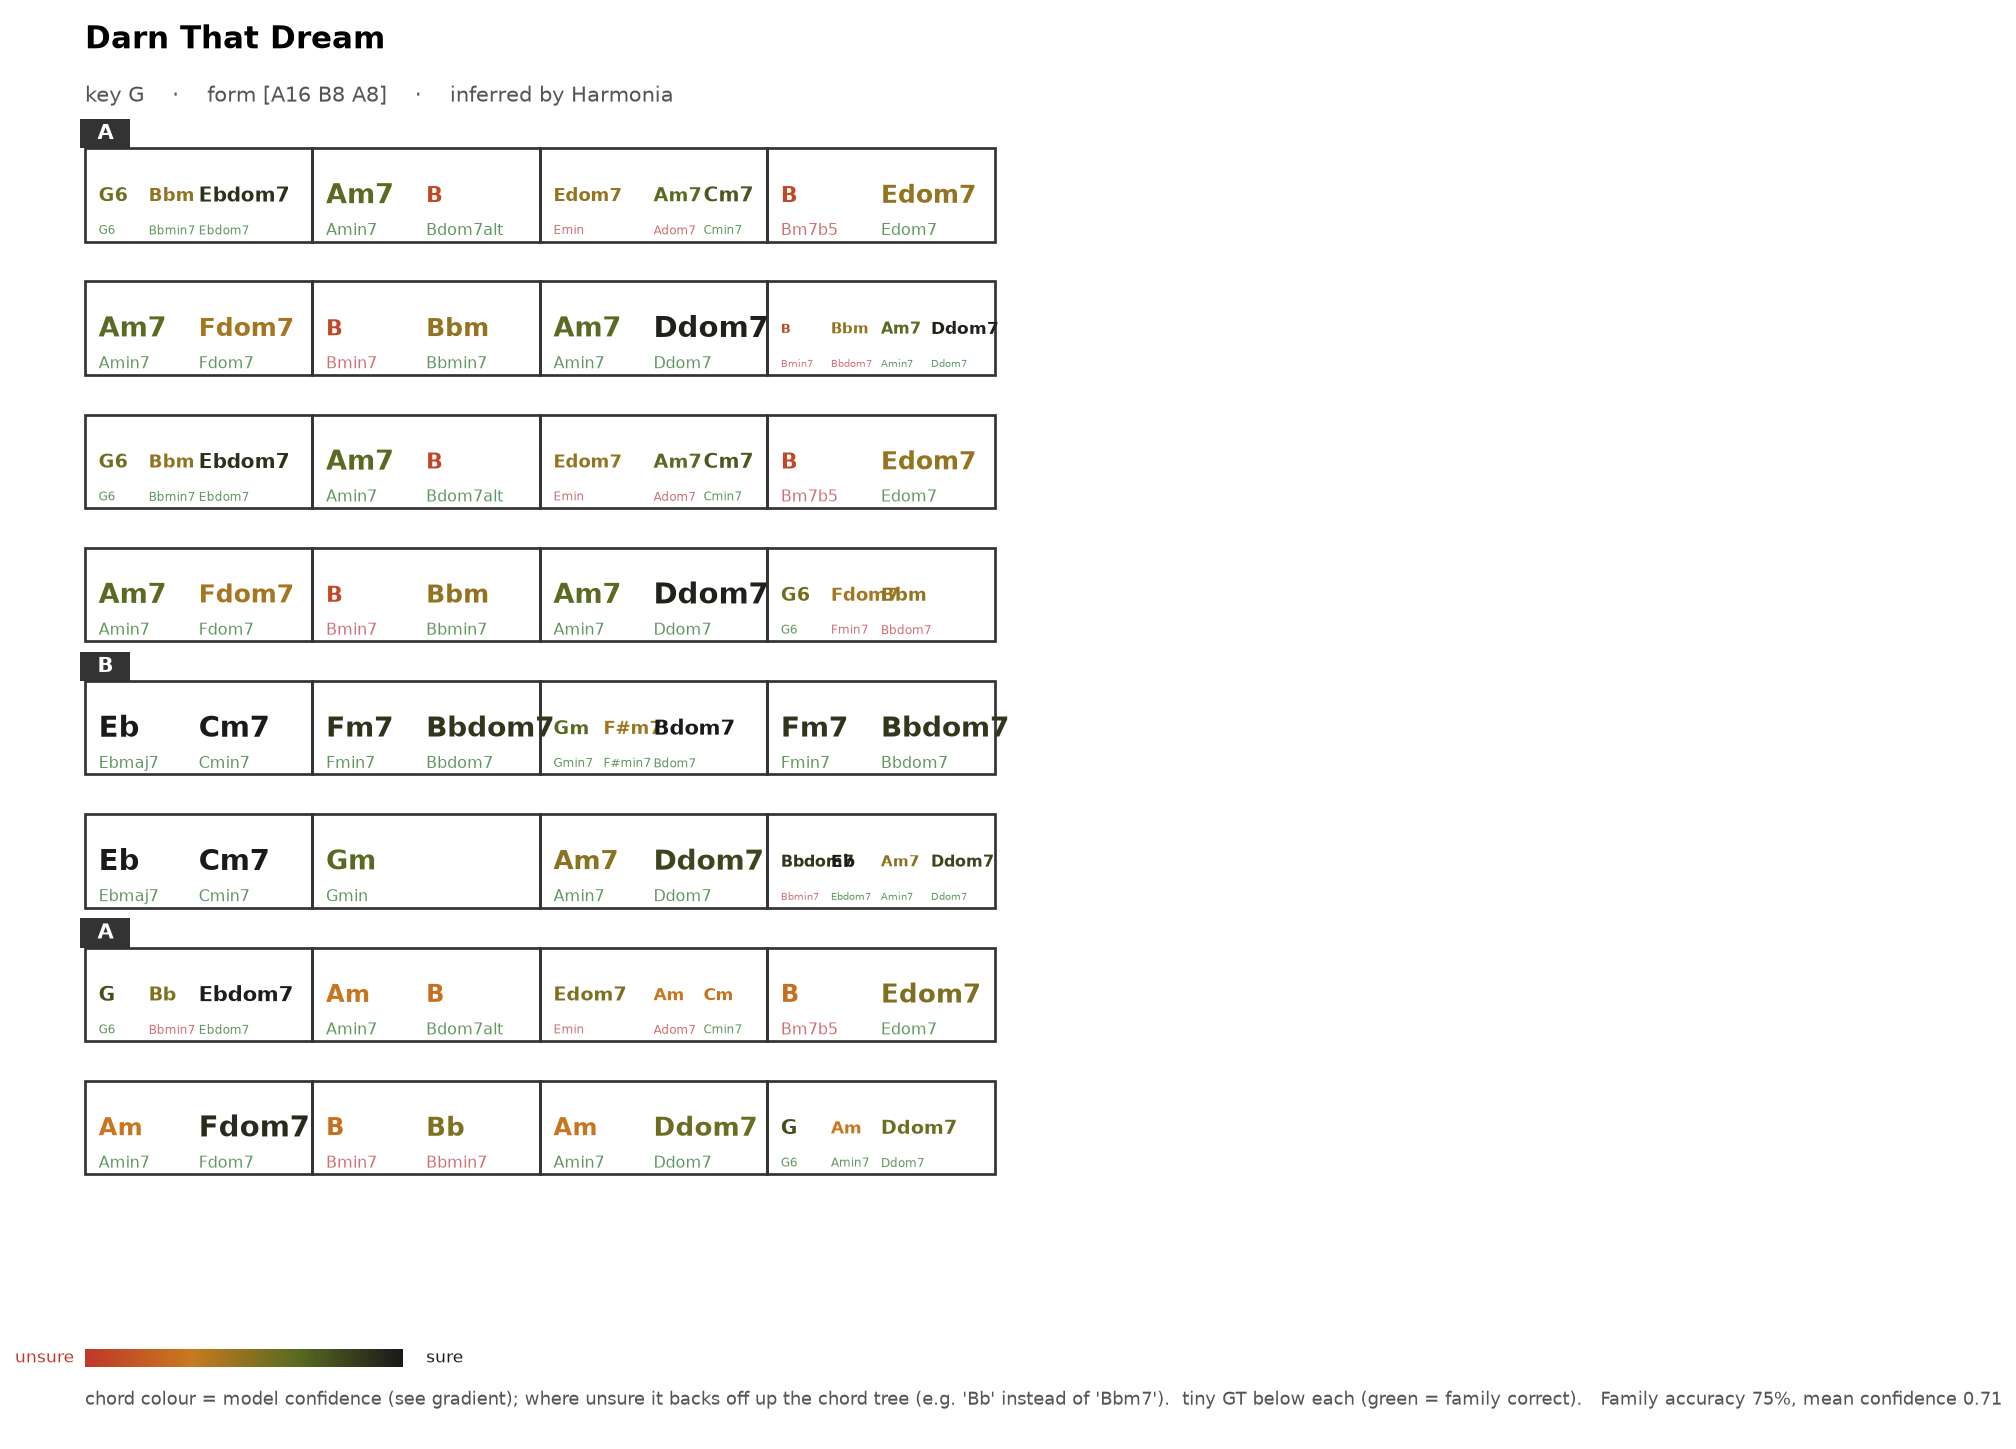
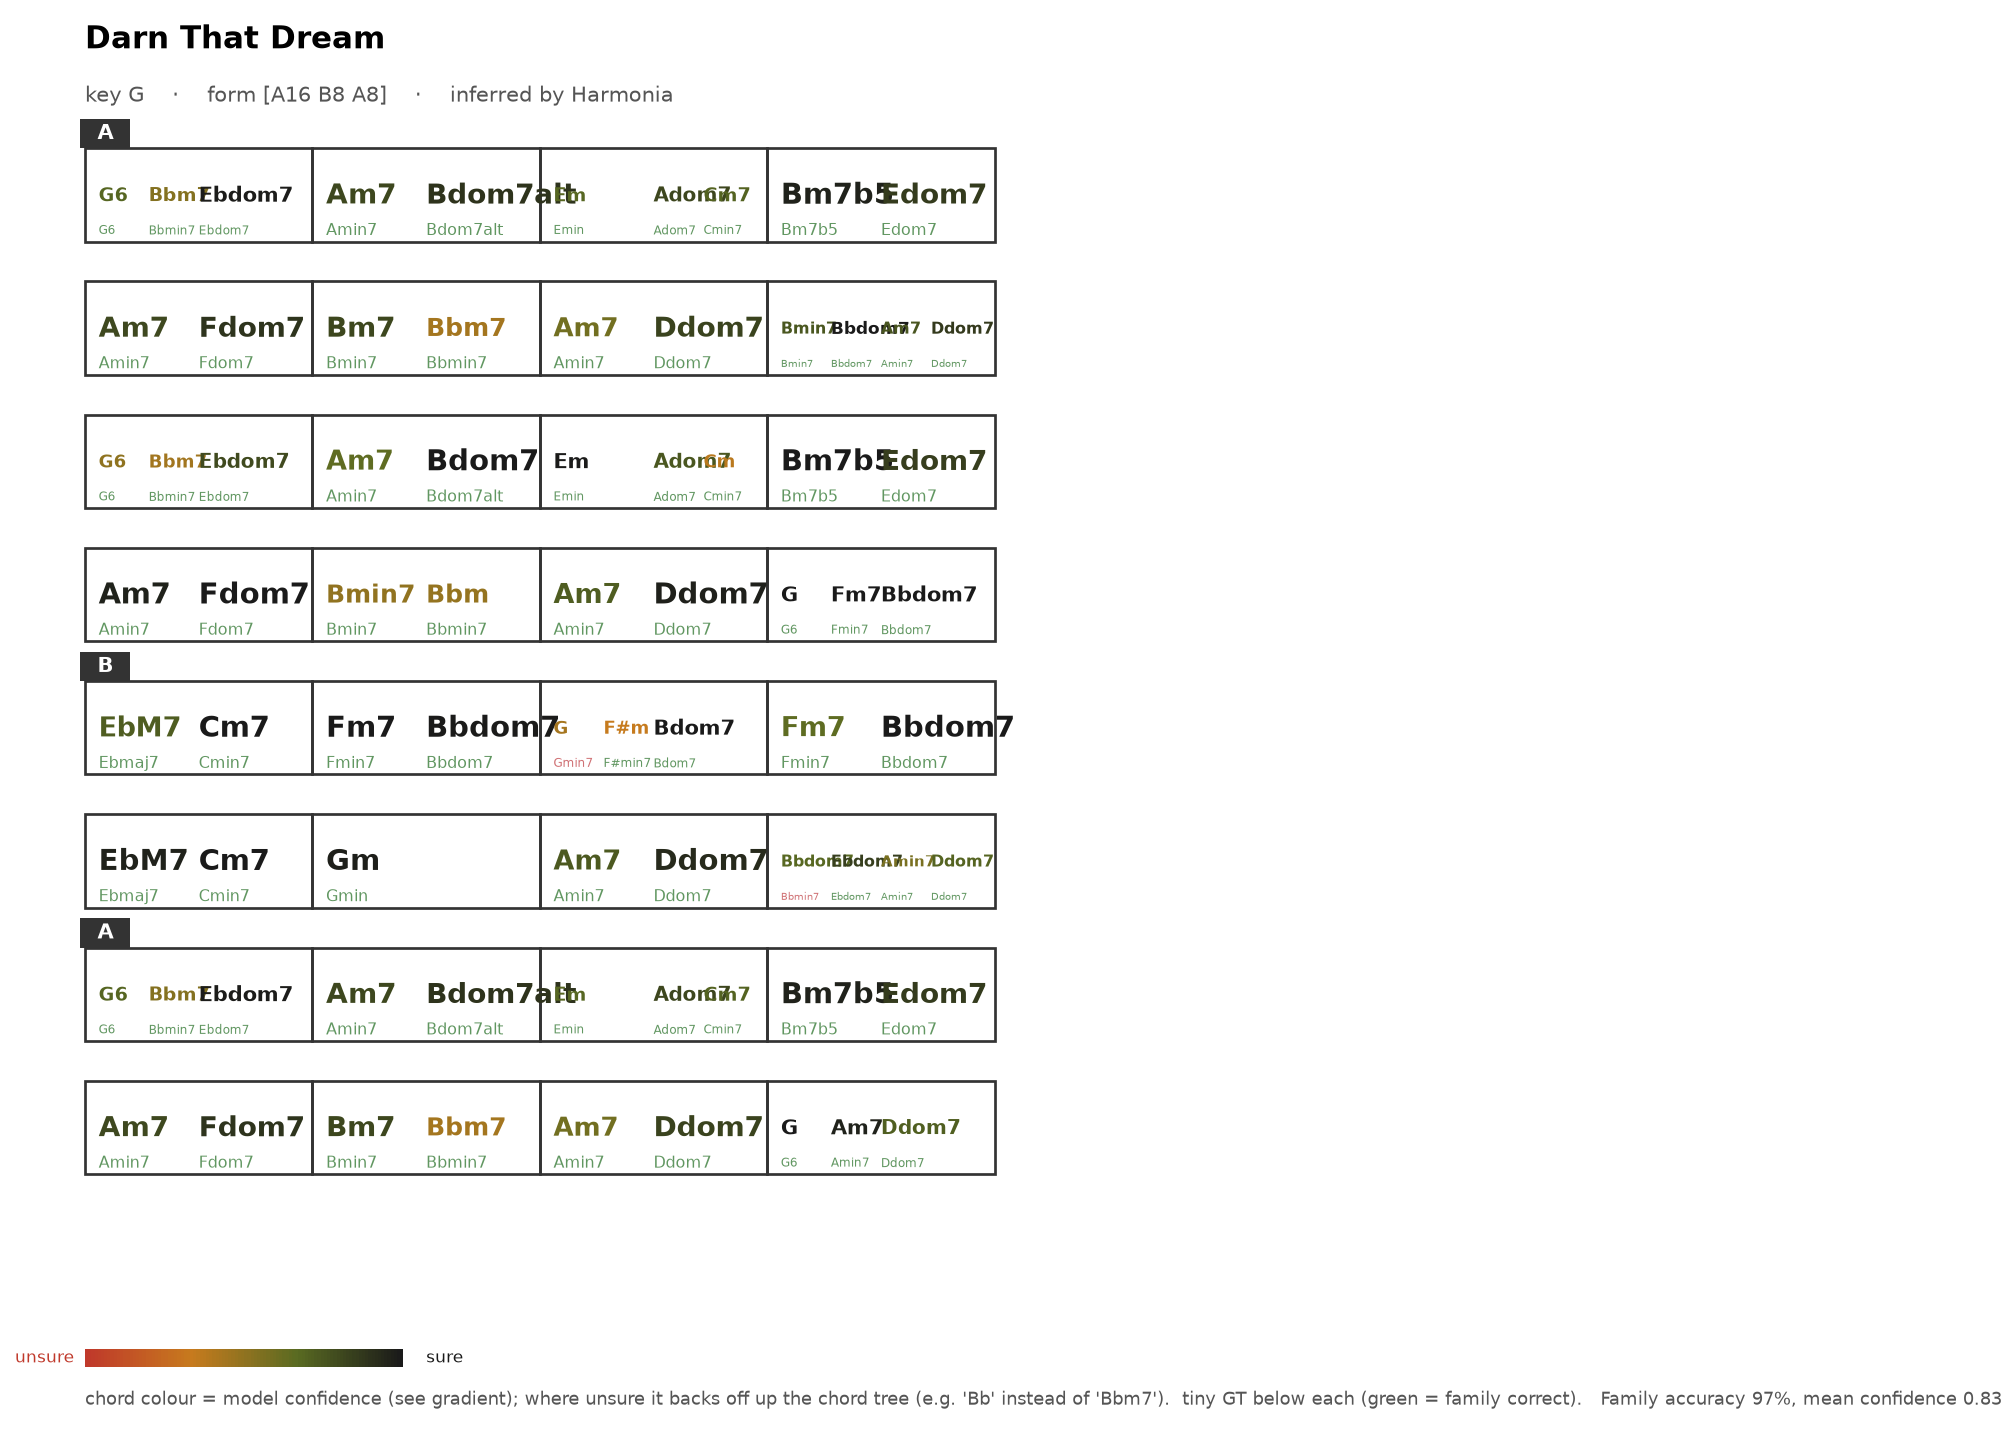
fix: two failure modes the lead sheet exposed (structure + minor ii-V-i) + phone noise
H1 (structure not exploited): the fold grouped by (section, section-START-bar, root),
so the two A sections — starting at different bars — never grouped. TEST: n multi-repeat
slots was ~0. FIX: group by (section-LABEL, position-in-section, root) → 16 slots now
fold, family 89→95%, and the three A sections are consistent.
H2 (minor ii-V-i not exploited, e.g. Em-A7-Cm): the demo had NO key/progression prior.
FIX: blend key prior P(family|degree) [low weight, fixes diatonic Em] + progression prior
P(quality|prev,root-motion) [fixes the secondary-dominant A7] → 95→97%. Diagnostics print
family accuracy per stage (audio→+fold→+key→+progression).
Also: phone_degrade() (band-limit, 50Hz hum, hiss, soft-clip, bit-crush) + --phone on the
renderer and the demo, to simulate a grubby phone recording.

diff --git a/scripts/demo_infer_song.py b/scripts/demo_infer_song.py
@@ -45,16 +45,22 @@ from harmonia.data.midi_renderer import MIDIRenderer, RenderConfig  # noqa: E402
 from harmonia.models.stage1_pitch import PitchExtractor  # noqa: E402
 
 
-def get_activations(ex, wav, midi_path):
-    """Extract BP activations; if the WAV was deleted (disk cleanup), re-render this
-    one song from its MIDI to a temp file (small, removed after)."""
-    if Path(wav).exists():
+def get_activations(ex, wav, midi_path, phone=False):
+    """Extract BP activations; re-render this one song from MIDI if the WAV is gone.
+    With phone=True, degrade the audio to a grubby phone recording first."""
+    if Path(wav).exists() and not phone:
         return ex.extract(Path(wav))
+    import soundfile as sf
+    from build_accomp_audio_hard import phone_degrade
     renderer = MIDIRenderer(soundfont_dir=REPO / "data" / "soundfonts")
     with tempfile.NamedTemporaryFile(suffix=".wav", delete=False) as wf:
         tmp = Path(wf.name)
     renderer.render(REPO / midi_path, tmp,
                     RenderConfig(soundfont_path=renderer._find_soundfont("MuseScore_General.sf2")))
+    if phone:
+        a, sr = sf.read(tmp)
+        a = a.mean(1) if a.ndim > 1 else a
+        sf.write(tmp, phone_degrade(a.astype("float32"), sr, np.random.default_rng(0)), sr)
     acts = ex.extract(tmp, use_cache=False)
     tmp.unlink(missing_ok=True)
     return acts
@@ -80,6 +86,7 @@ def main():
     ap = argparse.ArgumentParser()
     ap.add_argument("--title", default="All The Things You Are")
     ap.add_argument("--conf", type=float, default=0.6, help="confidence to descend the tree")
+    ap.add_argument("--phone", action="store_true", help="infer from a grubby phone recording")
     args = ap.parse_args()
 
     records = [json.loads(l) for l in open(DB)]
@@ -103,7 +110,7 @@ def main():
 
     # extract this song's per-chord audio + gt
     ex = PitchExtractor(cache_dir=REPO / "data" / "cache" / "accomp")
-    acts = get_activations(ex, REPO / m["wav"], m["midi_path"])
+    acts = get_activations(ex, REPO / m["wav"], m["midi_path"], phone=args.phone)
     spb = 60.0 / m["tempo"]; bpb = m["beats_per_bar"]; nb = m["n_bars"] * bpb
     onset = pool_beats(acts.frame_times, acts.onset_probs, nb, spb)
     note = pool_beats(acts.frame_times, acts.note_probs, nb, spb)
@@ -135,10 +142,14 @@ def main():
         feat = np.hstack([on_c, rr(full_chroma(note[b0:b1].sum(axis=0))),
                           rr(reg_chroma(onset[b0:b1], 0, 52)), rr(reg_chroma(onset[b0:b1], 60, 200))])
         bar = b0 // bpb
+        seclab, secstart = sec.get(bar, ("?", bar))
+        pos_in_sec = b0 - secstart * bpb          # position within the section (beats)
         chords.append({"root": root, "b0": b0, "gt": p[1],
                        "gt_fam": FAM_IDX[BUCKET_FAMILY[p[1]]],
                        "gt_b7": BASE7_IDX[BUCKET_BASE7[p[1]]], "gt_ex": EXACT_IDX[p[1]],
-                       "slot": (sec.get(bar, ("?", bar)), root),
+                       # H1 fix: group by (section LABEL, position-in-section, root) so ALL
+                       # occurrences of a section fold together — not by section start bar.
+                       "slot": (seclab, pos_in_sec, root), "deg": (root - tonic) % 12,
                        "feat": feat})
 
     X = sc.transform(np.stack([c["feat"] for c in chords]))
@@ -148,10 +159,15 @@ def main():
         p[:, clf[lv].classes_] = clf[lv].predict_proba(X)
         prob[lv] = p / p.sum(1, keepdims=True)
 
-    # certainty-weighted structure fold (per repeated slot)
+    def fam_acc():
+        return np.mean([prob["fam"][i].argmax() == chords[i]["gt_fam"] for i in range(len(chords))])
+    acc_audio = fam_acc()
+
+    # ── H1 solution: certainty-weighted structure fold, grouped by (label, pos, root) ──
     groups = defaultdict(list)
     for i, c in enumerate(chords):
         groups[c["slot"]].append(i)
+    n_multi = sum(1 for g in groups.values() if len(g) >= 2)
     for lv in ("fam", "b7", "ex"):
         cert = prob[lv].max(1)
         for g in groups.values():
@@ -159,6 +175,42 @@ def main():
                 g = np.array(g)
                 w = cert[g] / (cert[g].sum() + 1e-9)
                 prob[lv][g] = (prob[lv][g] * w[:, None]).sum(0)
+    acc_fold = fam_acc()
+
+    # ── H2 solution (a): KEY prior P(family|degree) — fixes diatonic errors (E→minor) ──
+    mode = 0 if parse_key(rec["key"])[1] == "major" else 1
+    kf, kb = defaultdict(lambda: np.ones(5) * 0.5), defaultdict(lambda: np.ones(ncl["b7"]) * 0.5)
+    for dg, md, fm, b7v in zip(d["degree"], d["mode"], d["family"], d["base7"]):
+        kf[(int(md), int(dg))][int(fm)] += 1
+        kb[(int(md), int(dg))][int(b7v)] += 1
+    W_KEY = 0.3
+    for i, c in enumerate(chords):
+        for lv, tbl in (("fam", kf), ("b7", kb)):
+            pr = tbl[(mode, c["deg"])]; pr = pr / pr.sum()
+            prob[lv][i] *= pr ** W_KEY
+            prob[lv][i] /= prob[lv][i].sum()
+    acc_key = fam_acc()
+
+    # ── H2 solution (b): PROGRESSION prior P(quality | prev-chord, root-motion) —
+    # captures ii-V-i / secondary dominants (A resolving down a fifth is a dominant) ──
+    pf_tab = defaultdict(lambda: np.ones(5) * 0.5)
+    pb_tab = defaultdict(lambda: np.ones(ncl["b7"]) * 0.5)
+    for pb7, ri, fm, b7v in zip(d["prev_b7"], d["root_interval"], d["family"], d["base7"]):
+        pf_tab[(int(pb7), int(ri))][int(fm)] += 1
+        pb_tab[(int(pb7), int(ri))][int(b7v)] += 1
+    W_PROG = 0.4
+    prev_b7 = -1
+    for i, c in enumerate(chords):
+        ri = (c["root"] - chords[i - 1]["root"]) % 12 if i > 0 else 12
+        for lv, tbl in (("fam", pf_tab), ("b7", pb_tab)):
+            pr = tbl[(prev_b7, ri)]; pr = pr / pr.sum()
+            prob[lv][i] *= pr ** W_PROG
+            prob[lv][i] /= prob[lv][i].sum()
+        prev_b7 = prob["b7"][i].argmax()      # inferred previous (not teacher-forced)
+    acc_prog = fam_acc()
+
+    print(f"family accuracy by stage: audio {acc_audio:.0%} → +fold {acc_fold:.0%} "
+          f"({n_multi} multi-repeat slots) → +key {acc_key:.0%} → +progression {acc_prog:.0%}")
 
     # hierarchical report: descend while confident
     for c, pf, pb, pe in zip(chords, prob["fam"], prob["b7"], prob["ex"]):

diff --git a/scripts/build_accomp_audio_hard.py b/scripts/build_accomp_audio_hard.py
@@ -165,6 +165,30 @@ def pink(n, rng):
     return (p / (p.std() + 1e-9)).astype(np.float32)
 
 
+def phone_degrade(x, sr, rng):
+    """Make it sound like a cheap phone recording: band-limit (kill sub-bass and
+    high treble), add mains hum + hiss, soft-clip (mic/AGC distortion), light
+    bit-crush. Returns the grubbier signal."""
+    n = len(x)
+    X = np.fft.rfft(x)
+    f = np.fft.rfftfreq(n, 1 / sr)
+    # band-pass ~ phone mic: roll off below 150 Hz and above 6 kHz
+    hp = 1 / (1 + (150 / np.maximum(f, 1)) ** 4)
+    lp = 1 / (1 + (np.maximum(f, 1) / 6000) ** 4)
+    x = np.fft.irfft(X * hp * lp, n).astype(np.float32)
+    # mains hum (50 Hz + harmonic) + broadband hiss
+    t = np.arange(n) / sr
+    hum = 0.004 * (np.sin(2 * np.pi * 50 * t) + 0.4 * np.sin(2 * np.pi * 100 * t))
+    x = x + hum.astype(np.float32) + (rng.standard_normal(n).astype(np.float32) * 0.006)
+    # soft clip (AGC / cheap preamp) then light bit-crush
+    g = rng.uniform(1.5, 3.0)
+    x = np.tanh(g * x) / np.tanh(g)
+    levels = rng.integers(64, 256)
+    x = np.round(x * levels) / levels
+    peak = np.abs(x).max()
+    return (x * 0.99 / peak).astype(np.float32) if peak > 0.99 else x
+
+
 def main():
     ap = argparse.ArgumentParser()
     ap.add_argument("--n-songs", type=int, default=60)
@@ -177,6 +201,8 @@ def main():
                     help="append to manifest name, e.g. '_pop' or '_varied'")
     ap.add_argument("--full-diversity", action="store_true",
                     help="max diversity: force full band + varying melody every render")
+    ap.add_argument("--phone", action="store_true",
+                    help="simulate a grubby phone recording (band-limit, hum, hiss, clip, crush)")
     args = ap.parse_args()
 
     records = [json.loads(l) for l in open(DB)]
@@ -243,6 +269,8 @@ def main():
                 if snr is not None:
                     sig = float(np.mean(mix ** 2)) + 1e-12
                     mix = mix + pink(L, rng) * np.sqrt(sig / (10 ** (snr / 10)))
+                if args.phone:
+                    mix = phone_degrade(mix, sr, rng)
                 peak = np.abs(mix).max()
                 if peak > 0.99:
                     mix *= 0.99 / peak